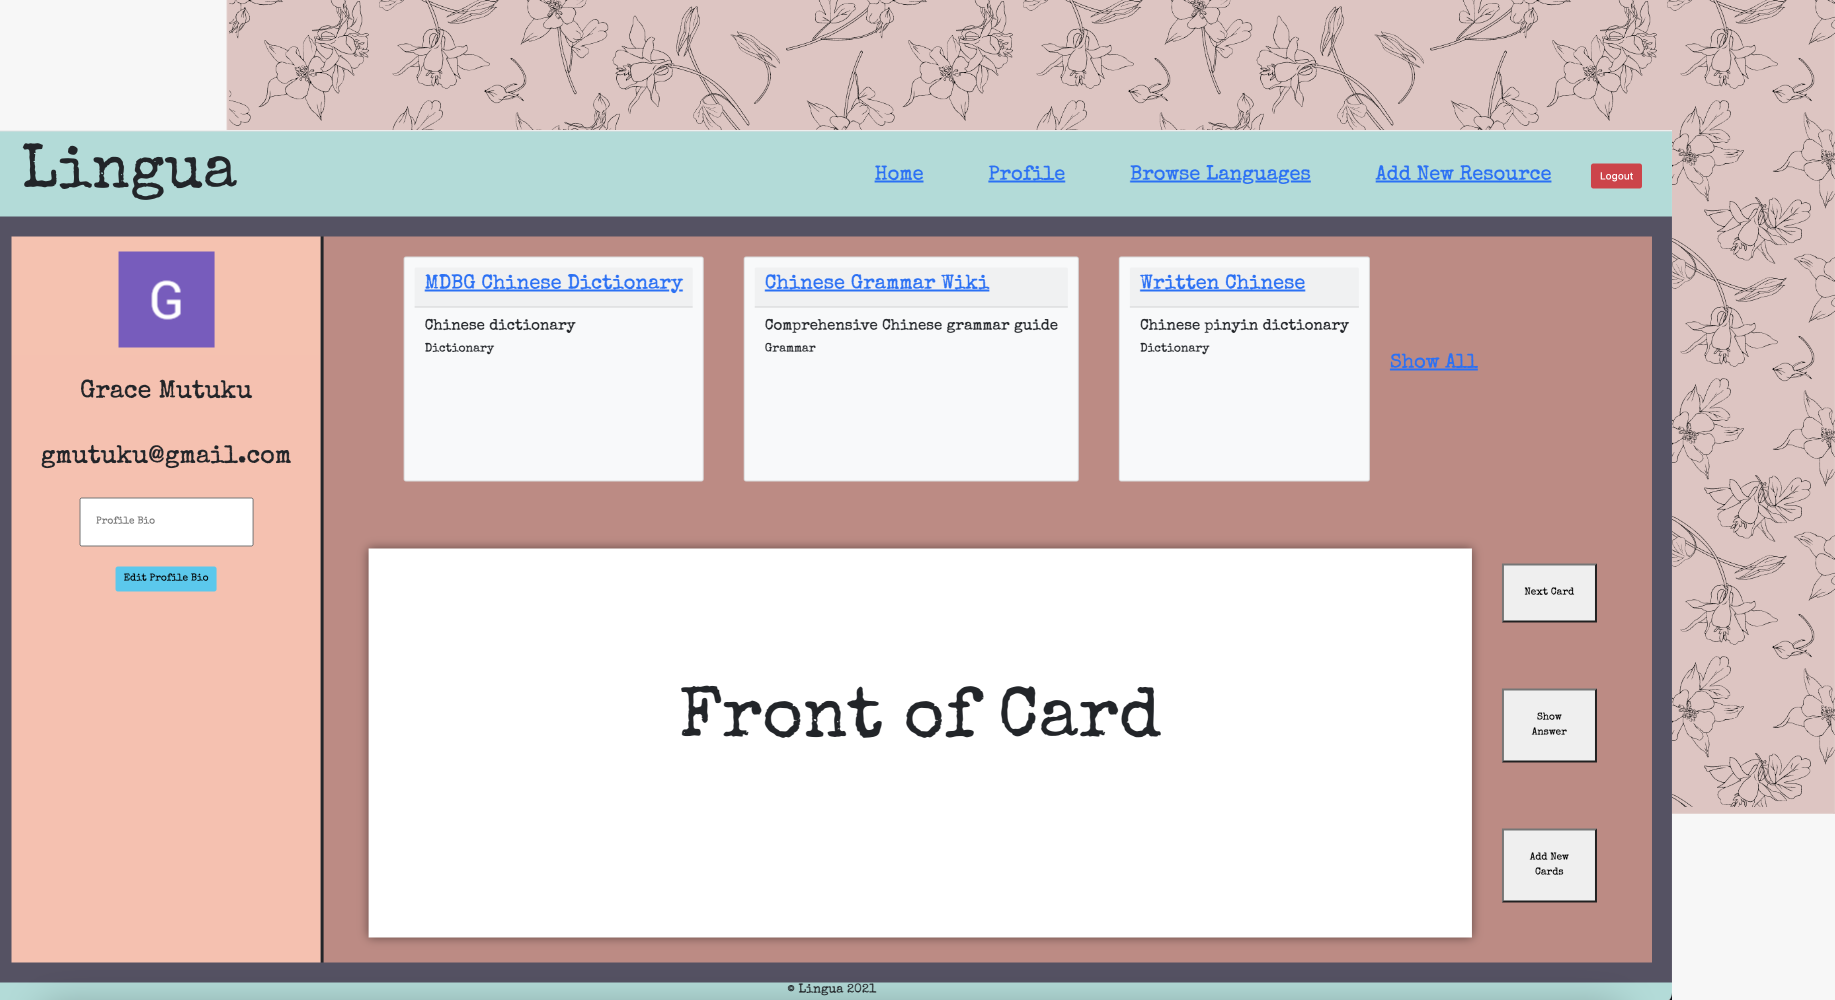
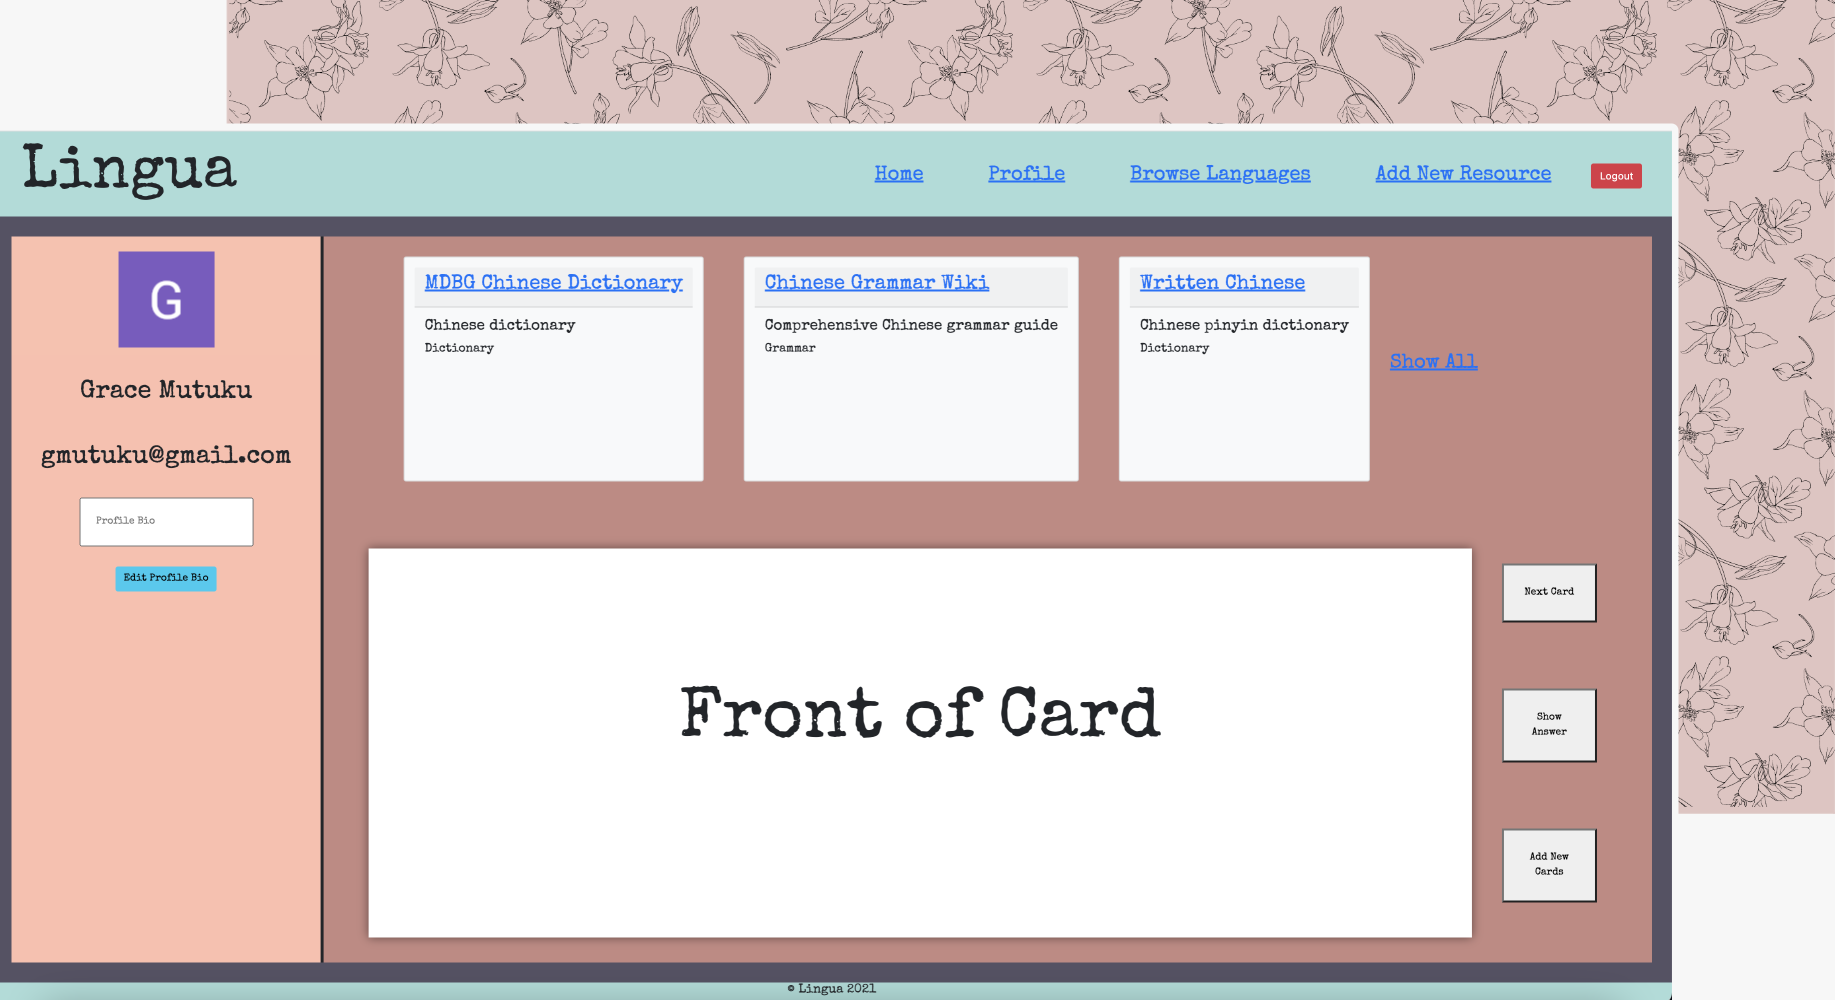
commit 2 additional portfolio pieces to portfolio page

Changed region(s): [[0.1243, 0.124, 0.9319, 0.806]]

diff --git a/src/pages/Works/Works.jsx b/src/pages/Works/Works.jsx
@@ -5,13 +5,14 @@ const Works = () => {
   return (  
     <>
     <main>
+      {/* Dominos */}
       <div className={styles.works1_container}>
         <div>
           <img className={styles.works1_image} src="images/dominos.jpg" alt="dominos" /> 
         </div>
         <div className={styles.works1_description}>
           <span className={styles.works1_title}>DOMINOS</span>
-          <p>A web browser-based game of dominoes versus a computer.</p>
+          <p>A web browser-based game of dominos versus a computer.</p>
           <i><p>HTML	&#9679; CSS 	&#9679; JavaScript</p></i>
           <a href="https://sei-dominos.surge.sh/" rel="noreferrer" target="_blank">VIEW LIVE</a> | <a href="https://github.com/mu2ku/Dominos" rel="noreferrer" target="_blank">VIEW REPO</a>
           <div className={styles.works1_counter_container}>
@@ -19,6 +20,7 @@ const Works = () => {
           </div>
         </div>
       </div>
+      {/* Lingua */}
       <div className={styles.works2_container}>
         <div className={styles.works1_description}>
           <span className={styles.works1_title}>LINGUA</span>
@@ -33,7 +35,36 @@ const Works = () => {
           <img className={styles.works1_image} src="images/lingua.png" alt="lingua" /> 
         </div>
       </div>
-      
+      {/* Genshin Builds */}
+      <div className={styles.works1_container}>
+        <div>
+          <img className={styles.works1_image} src="images/genshin.png" alt="genshin" /> 
+        </div>
+        <div className={styles.works1_description}>
+          <span className={styles.works1_title}>GENSHIN BUILDS</span>
+          <p>Genshin Builds is an application where players of the popular action RPG, Genshin Impact, can create, mix and match potential team builds!</p>
+          <i><p>HTML	&#9679; CSS 	&#9679; JavaScript &#9679; MongoDB &#9679; Express &#9679; React &#9679; Node.js &#9679; REST API</p></i>
+          <a href="https://genshin-team-builder.herokuapp.com/" rel="noreferrer" target="_blank">VIEW LIVE</a> | <a href="https://github.com/mu2ku/genshin-builds" rel="noreferrer" target="_blank">VIEW REPO</a>
+          <div className={styles.works1_counter_container}>
+            <span className={styles.works1_counter}>03</span>
+          </div>
+        </div>
+      </div>
+      {/* J'ai Faim, Je Mange */}
+      <div className={styles.works2_container}>
+        <div className={styles.works1_description}>
+          <span className={styles.works1_title}>J'AI FAIM, JE MANGE</span>
+          <p className={styles.works_shortDes}>"J'ai Faim, Je Mange" is a Python/Django web application for users to search, collect, and add their favorite recipes.</p>
+          <i><p>HTML	&#9679; CSS 	&#9679; JavaScript &#9679; Python &#9679; Django &#9679; REST API</p></i>
+          <a href="https://jai-104.herokuapp.com/" rel="noreferrer" target="_blank">VIEW LIVE</a> | <a href="https://github.com/mu2ku/J-ai-Faim-Je-Mange" rel="noreferrer" target="_blank">VIEW REPO</a>
+          <div className={styles.works2_counter_container}>
+            <span className={styles.works2_counter}>04</span>
+          </div>
+        </div>
+        <div>
+          <img className={styles.works1_image} src="images/jai.png" alt="jai" /> 
+        </div>
+      </div>
     </main>
     </>
   );

diff --git a/src/components/NavBar/NavBar.module.css b/src/components/NavBar/NavBar.module.css
@@ -9,6 +9,7 @@
   top: 0;
   font-family: 'Raleway', sans-serif;
   font-weight: 100;
+  margin: 0;
 }
 
 .links_container {
